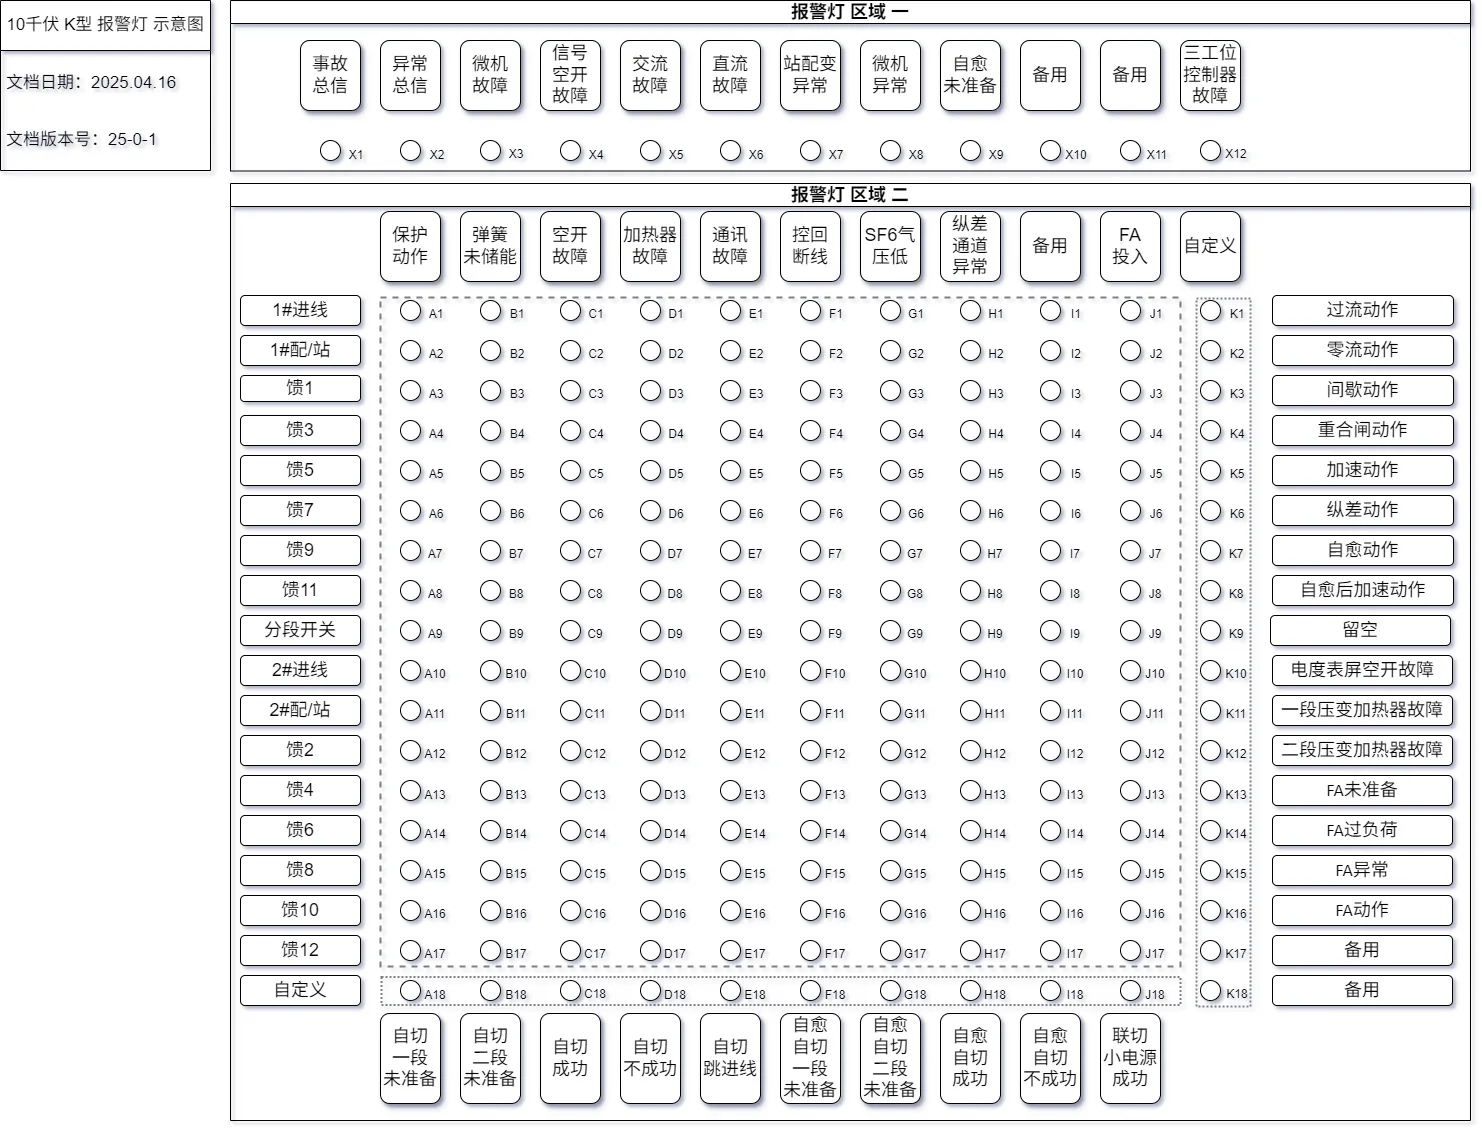
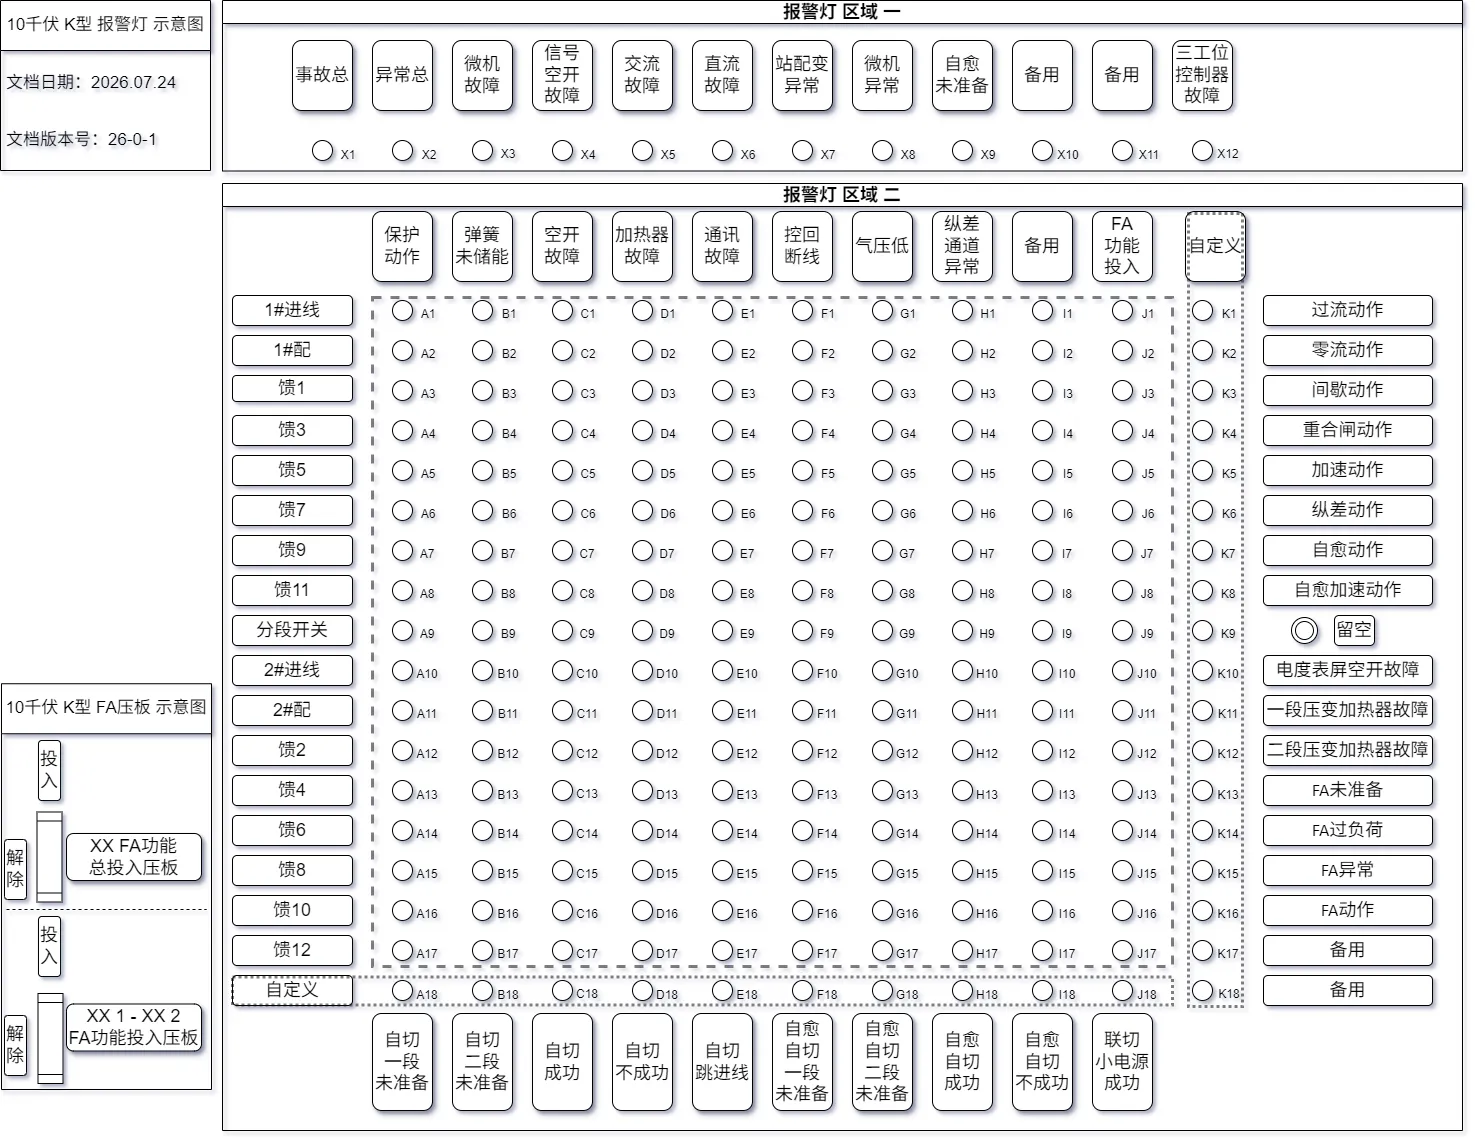
更新FA压板

Changed region(s): [[0.0, 0.0, 0.998, 0.9894], [0.0312, 0.0, 0.1559, 0.0618]]

diff --git a/docs/Page/10K-Standard-Nameplate.md b/docs/Page/10K-Standard-Nameplate.md
@@ -254,30 +254,32 @@
 
 ## 配网自动化屏
 
-| 序号 | 铭牌名称                    | 备注信息                        | 状态 |
-| ---- | --------------------------- | ------------------------------- | ---- |
-| 1    | 报警灯                      |                                 |      |
-| 2    | 自动化后台装置              |                                 |      |
-| 3    | XX 遥控总把手               | XX为开关站站名                  | 投入 |
-| 4    | XX FA 功能总投入压板        | XX为开关站站名                  | 解除 |
-| 5    | XX A - XX B FA 功能投入压板 | XX为开关站站名；A-B为电源仓编号 | 解除 |
-| 6    | XX A - XX B FA 功能投入压板 | XX为开关站站名；A-B为电源仓编号 | 解除 |
-| 7    | 站控交换机                  | 站内保护装置用交换机            |      |
-| 8    | 配网交换机                  | 光纤通信用交换机                |      |
-| 9    | 配网加密装置                | 后台外置加密装置                |      |
-| 10   | 保信子站交换机              |                                 |      |
-| 11   | 保信子站装置                |                                 |      |
-| 12   | 保信子站加密装置            |                                 |      |
-| 13   | 10千伏一段母线电压小开关    |                                 |      |
-| 14   | 10千伏二段母线电压小开关    |                                 |      |
-| 15   | 自动化屏直流电源小开关      |                                 |      |
-| 16   | 自动化屏交流电源小开关      |                                 |      |
-| 17   | 保信子站装置电源小开关      |                                 |      |
-| 18   | 自动化后台装置电源小开关    |                                 |      |
-| 19   | 配网交换机电源小开关        |                                 |      |
-| 20   | 站控交换机电源小开关        |                                 |      |
-| 21   | 保信子站交换机电源小开关    |                                 |      |
-| 22   | 配网加密装置电源小开关      |                                 |      |
+| 序号 | 铭牌名称                       | 备注信息                           | 状态 |
+| ---- | ------------------------------ | ---------------------------------- | ---- |
+| 1    | 报警灯                         |                                    |      |
+| 2    | 自动化后台装置                 |                                    |      |
+| 3    | XX 遥控总把手                  | XX为开关站站名                     | 投入 |
+| 4    | XX FA 功能总投入压板           | XX为开关站站名                     | 解除 |
+| 5    | XX A - XX B FA  功能投入压板   | XX为开关站站名；A-B为电源仓编号    | 解除 |
+| 6    | XX A - XX B FA  功能投入压板   | XX为开关站站名；A-B为电源仓编号    | 解除 |
+| 7    | 站控层（I区）交换机            | 红色铭牌；I区  保护装置通讯交换机  |      |
+| 8    | 站控层（II区）交换机           | 黄色铭牌；II区  保信子站通讯交换机 |      |
+| 9    | 配网交换机                     | 红色铭牌；I区  通道交换机          |      |
+| 10   | 配网加密装置                   | 红色铭牌；后台外置加密装置         |      |
+| 11   | 保信子站交换机                 | 黄色铭牌；II区  通道交换机         |      |
+| 12   | 保信子站装置                   |                                    |      |
+| 13   | 保信子站加密装置               | 黄色铭牌；保信子站外置加密装置     |      |
+| 14   | 10千伏一段母线电压小开关       |                                    |      |
+| 15   | 10千伏二段母线电压小开关       |                                    |      |
+| 16   | 自动化屏直流电源小开关         |                                    |      |
+| 17   | 自动化屏交流电源小开关         |                                    |      |
+| 18   | 保信子站装置电源小开关         |                                    |      |
+| 19   | 自动化后台装置电源小开关       |                                    |      |
+| 20   | 配网交换机电源小开关           |                                    |      |
+| 21   | 保信子站交换机电源小开关       |                                    |      |
+| 22   | 站控层（I区）交换机电源小开关  | I区 保护装置通讯交换机             |      |
+| 23   | 站控层（II区）交换机电源小开关 | II区 保信子站通讯交换机            |      |
+| 24   | 加密装置电源小开关             |                                    |      |
 
 ## 电度表一/二屏
 

diff --git a/docs/Page/10K-Alarmplate.md b/docs/Page/10K-Alarmplate.md
@@ -1,4 +1,4 @@
-# 10千伏 K型 报警灯配置表
+# 10千伏 K型 自动化后台屏 配置表
 
 
 
@@ -39,6 +39,10 @@
 - 如有自愈或FA功能，请提供对应的拓扑图，并且打印塑封后粘贴于后台装置旁。
 
 - 使用标签贴纸，把 *各隔间的定义名称* 与 *线路名称* 对应。如： ***JG1：金1***
+
+- 站控交换机网口请严格按照 网口定义规则 进行接入
+
+- 站内网线颜色及色标要求：保护装置-站控交换机 **红色**（I区）；保护装置-保护信息子站交换机 **黄色** （II区）；设备调试 **橙色**
 
 :::
 
@@ -294,6 +298,34 @@
 >
 > - ##### K18	备用
 
+
+
+## 站控交换机 网口定义规则
+
+站控交换机应为24电口交换机
+
+对应网口接口如下：
+
+***网口1~网口12*** 对应出线仓位：“ 举例：**网口1 对应接入 馈线1**；**网口12 对应接入 馈线12** ”
+
+***网口13*** 对应接入 分段自切装置
+
+***网口14*** 对应接入 分段测控装置
+
+***网口 15*** 对应接入 1号站用变/配变 保护装置
+
+**网口 16** 对应接入 2号站用变/配变 保护装置
+
+***网口17~20*** 为备用接口
+
+***网口21*** 对应接入 一段进线保护装置
+
+***网口22*** 对应接入 二段进线保护装置
+
+***网口23~24*** 为备用接口
+
+
+
 ------
 
 
@@ -311,6 +343,14 @@
 
 
 ## 更新说明
+
+[2026.07.24]
+
+新增 站控交换机 网口定义规则
+
+新增 站内网线颜色标识规则
+
+
 
 [2024.09.11]	
 